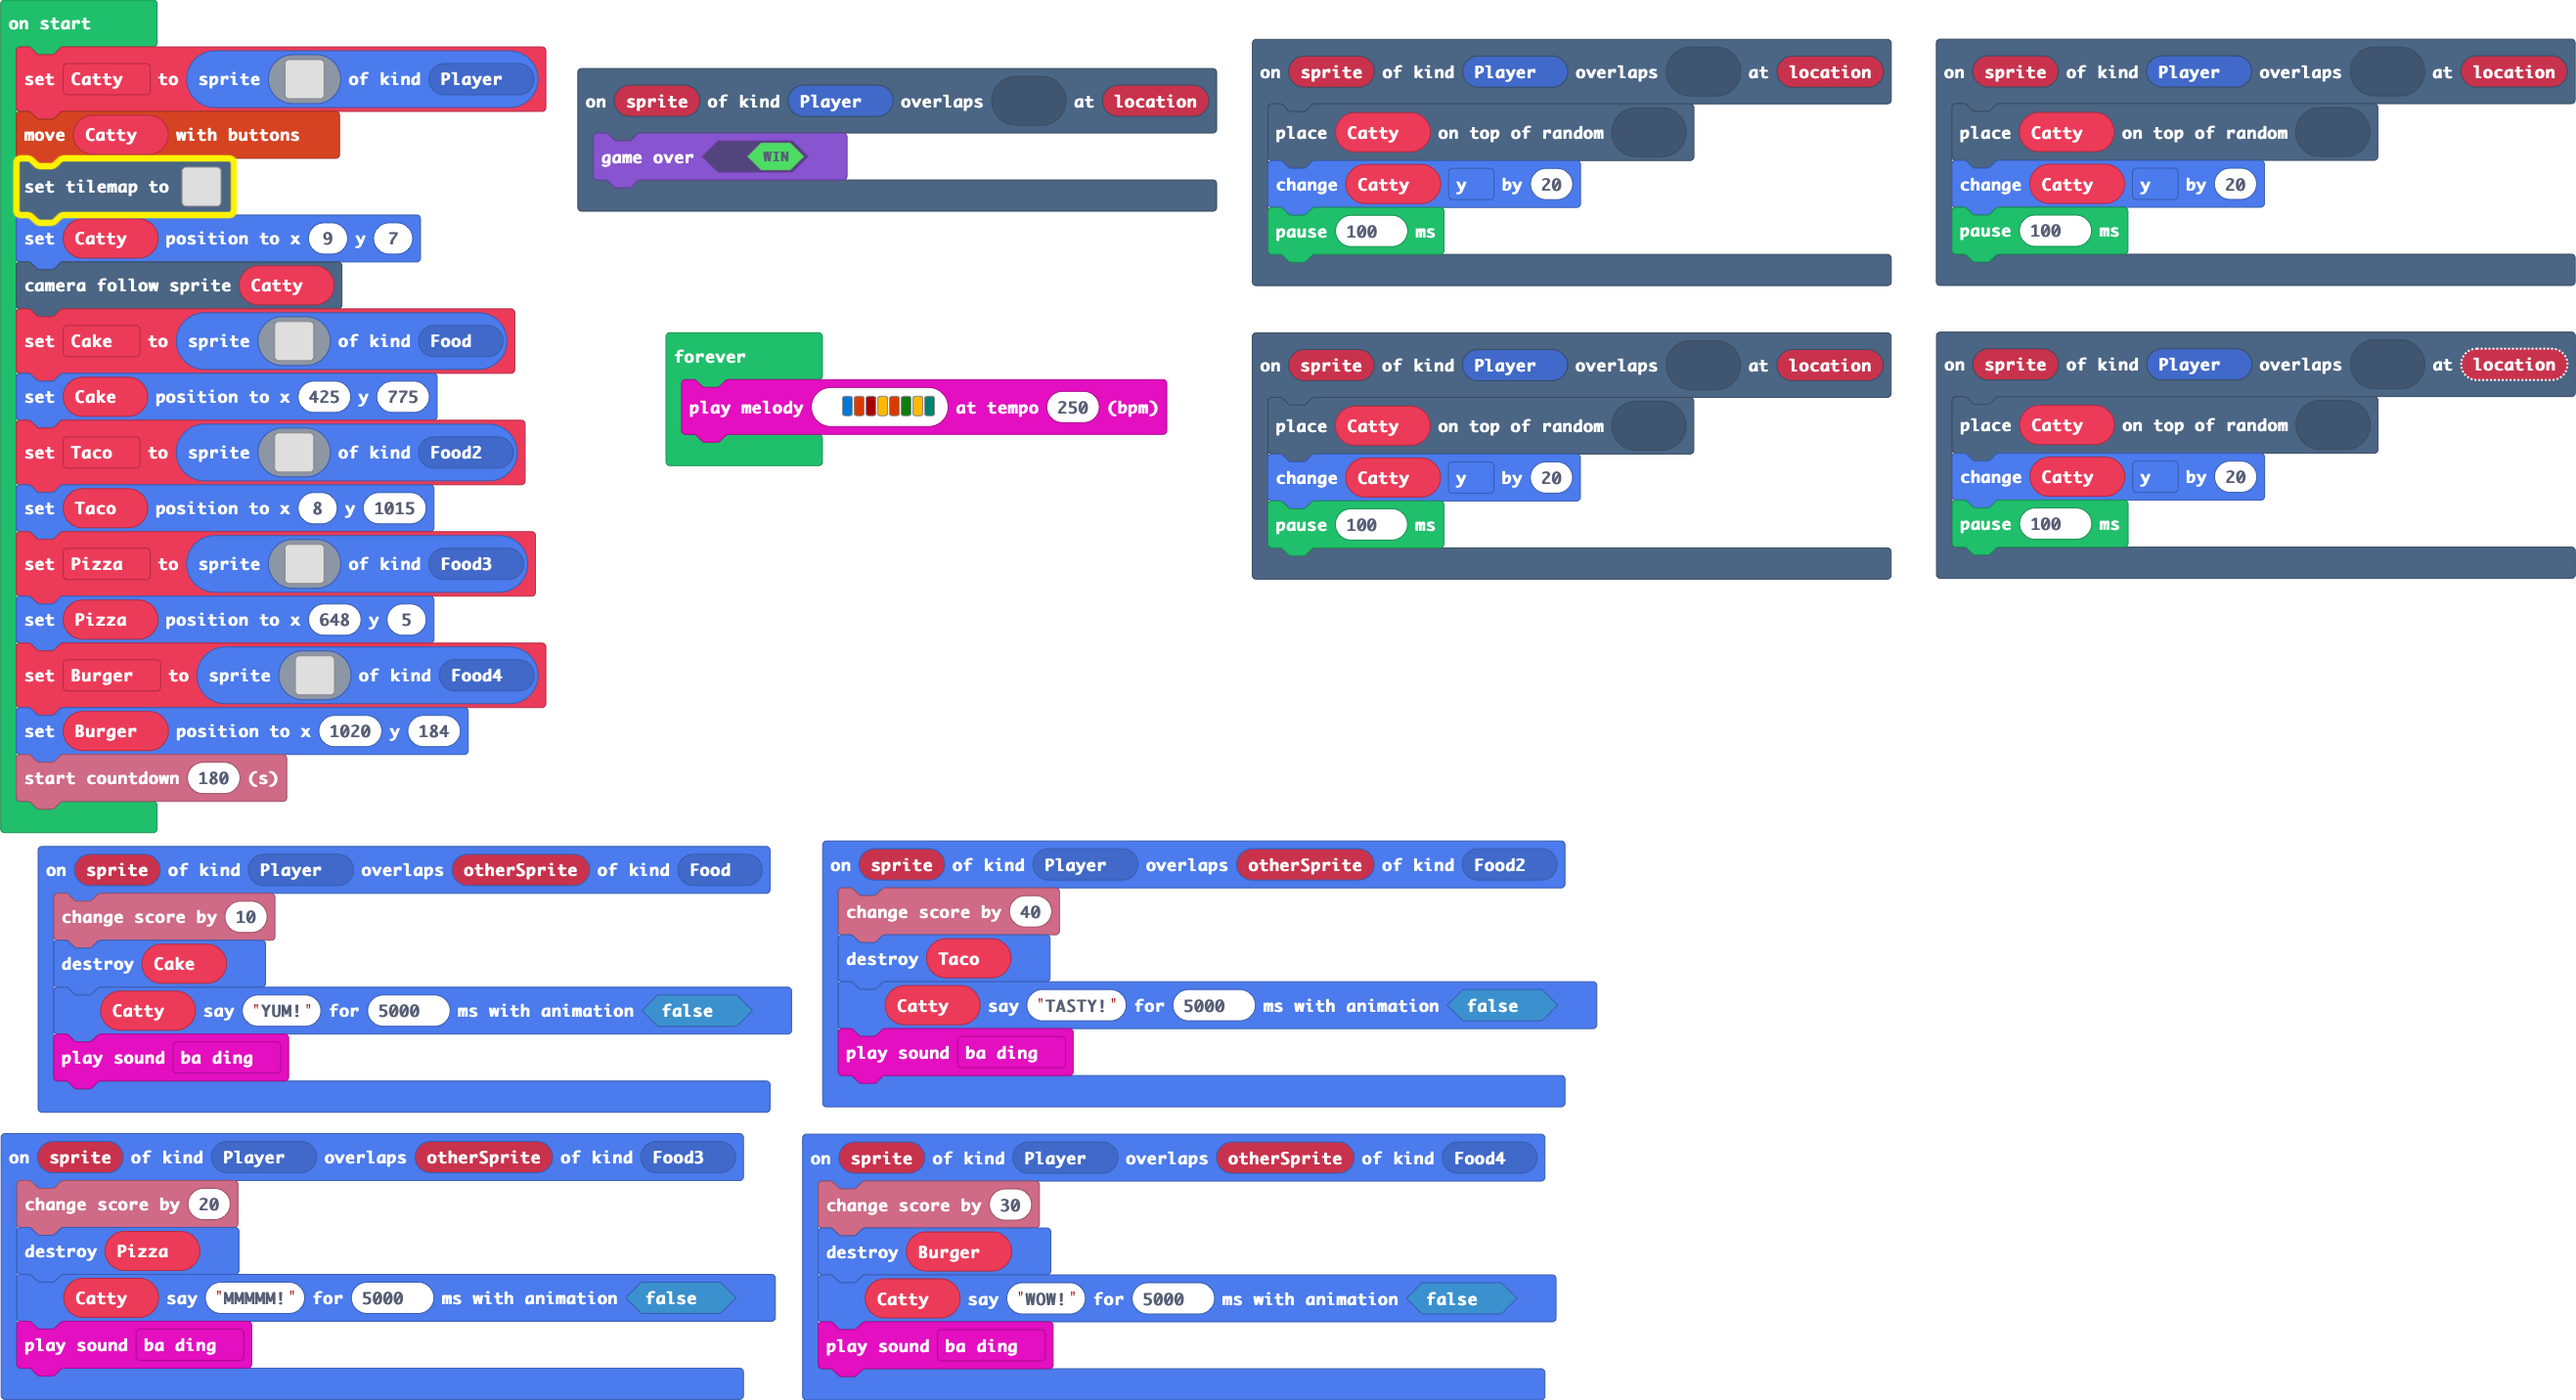
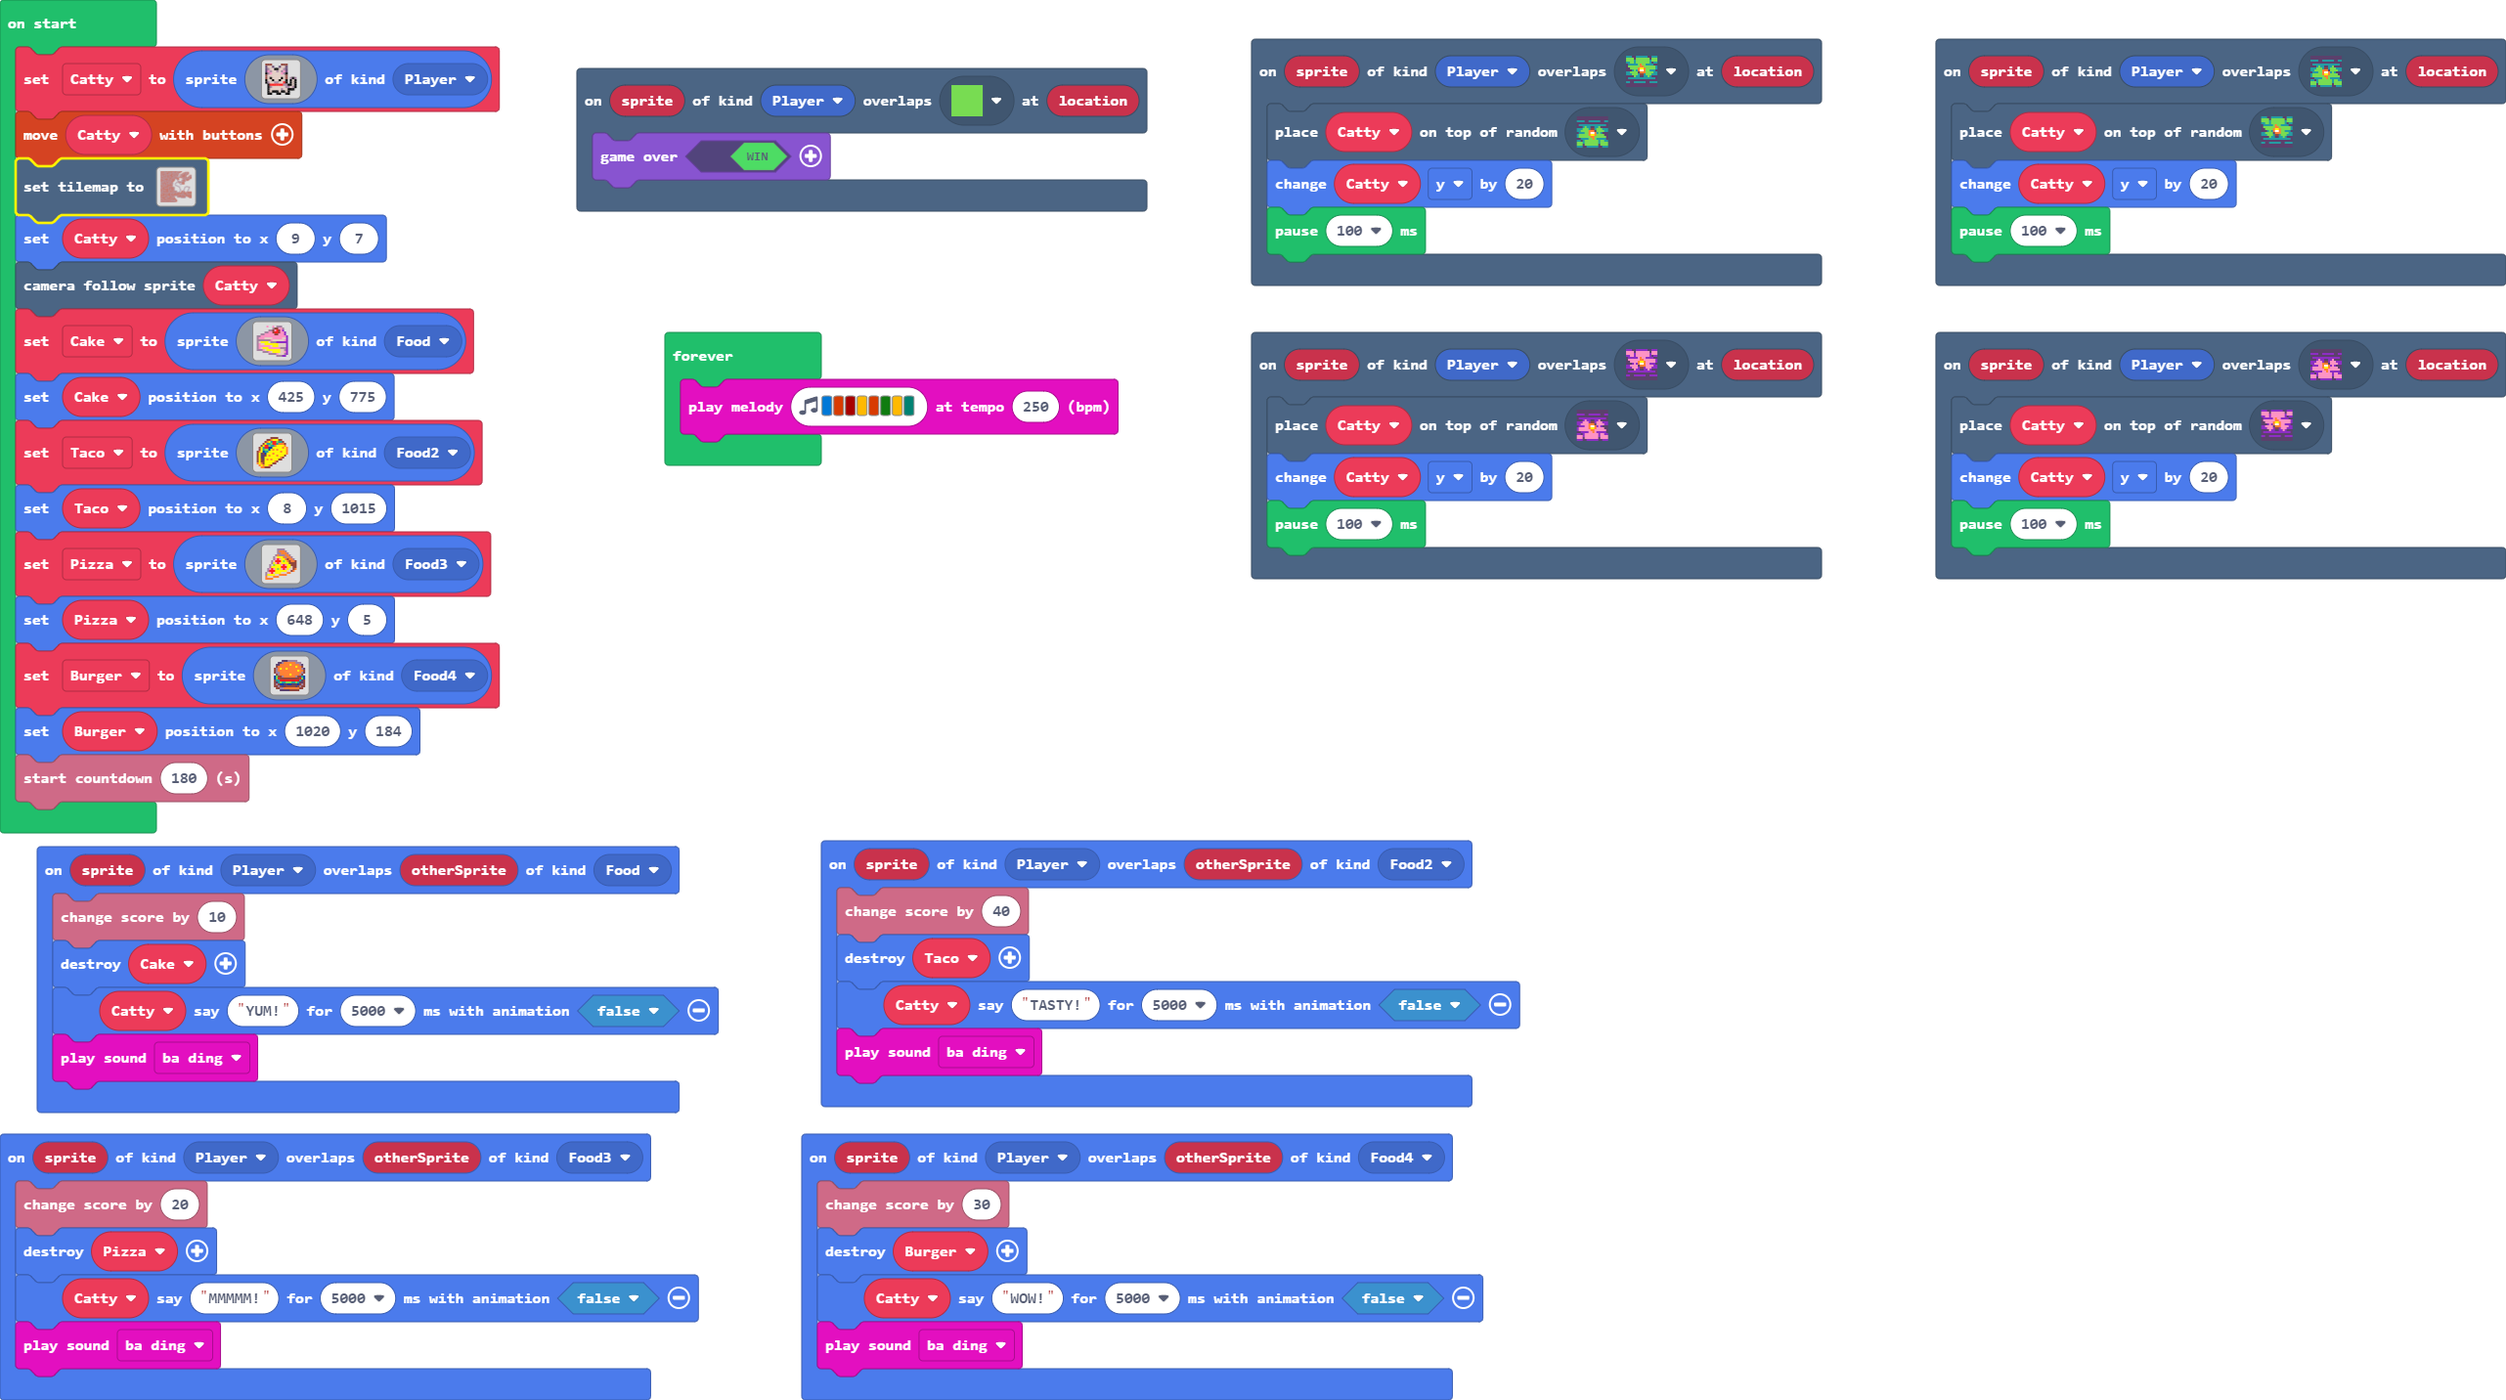
Update main.blocks, tilemap.g.jres, tilemap.g.ts

diff --git a/tilemap.g.ts b/tilemap.g.ts
@@ -10,25 +10,25 @@ namespace myTiles {
     helpers._registerFactory("tilemap", function(name: string) {
         switch(helpers.stringTrim(name)) {
             case "level1":
[2 lines of base64/hex data omitted]
 .22222222.22222.222222222222.2222222.....222....................
 .22222222.22222.2222.2222222.2222....2222222....................
 .22.............2222.2222....2222.22222222........22222222......
 .22222222.22.2222222.2222.2222222.222222.......222222...22......
 .22222222.22.2222.............................22......2.22......
-.22.......2..2222.222.22222.22.2222.22......222..22222..22......
-.22.22222.22.2222.22..22222.22.2222.2.....222....222...22.......
+.22.......2..2222.222.22222.22.2222.22......2222.22222..22......
+.22.22222.22.2222.22..22222.22.2222.2.....2222...222...22.......
 .22.22222.2..........2222...22.2....2....22....2222..222........
 .22.22222.222.2222.222222.2222.2.2222....2..2222222.22......2222
 .22........22.2222.222222..222.2..22.....2.22222222.2......22...
 .2222.2222.22.2222.2222222..22.22.22.....2..2222222.2.....22....
 ......2222.2..2222....22222.22.22.......222.222222..2.....2.....
-.2222..222.22.2222.22.22222.............222...222..222..22...222
-.22222...2.22.2222.22.22....222..........2222...22...222222.2222
-.222222222.......2.22222.2.22222............222...22..2...2.2222
-...........22222.2.22222.2....................222...2...2...22..
-2222.22222222222.2.22....22222.................2222.22222222....
-2222.....2222222...22.22222222.......................222222.....
+.2222..222.22.2222.22.22222...........22222...2222.222..22...222
+.22222...2.22.2222.22.22....22222222222..2222...22...222222.2222
+.222222222.......2.22222.2.2222222222.......222...22..2...2.2222
+...........22222.2.22222.2.......22222........222...2...2...22..
+2222.22222222222.2.22....22222.....222.........2222.22222222....
+2222.....2222222...22.22222222.....222...............222222.....
 22222222.2222222.2222.2222222................222222..22222......
 22222222.....2.2.22.2....2222................222222...22........
 222..22..222.2...22.2.222222.................222222.............
@@ -39,7 +39,7 @@ namespace myTiles {
 .22222222.22......2222222...................22222...............
 ....22....222.222.222222....................22222...............
 .22.22222.222.222...22..........................................
-.......22.222.2222222222........................................
+.......22.222.22222222222.......................................
 222222.22.22..22222222222.......................................
 222222.......22222222222........................................
 222222.2222222222...............................................
